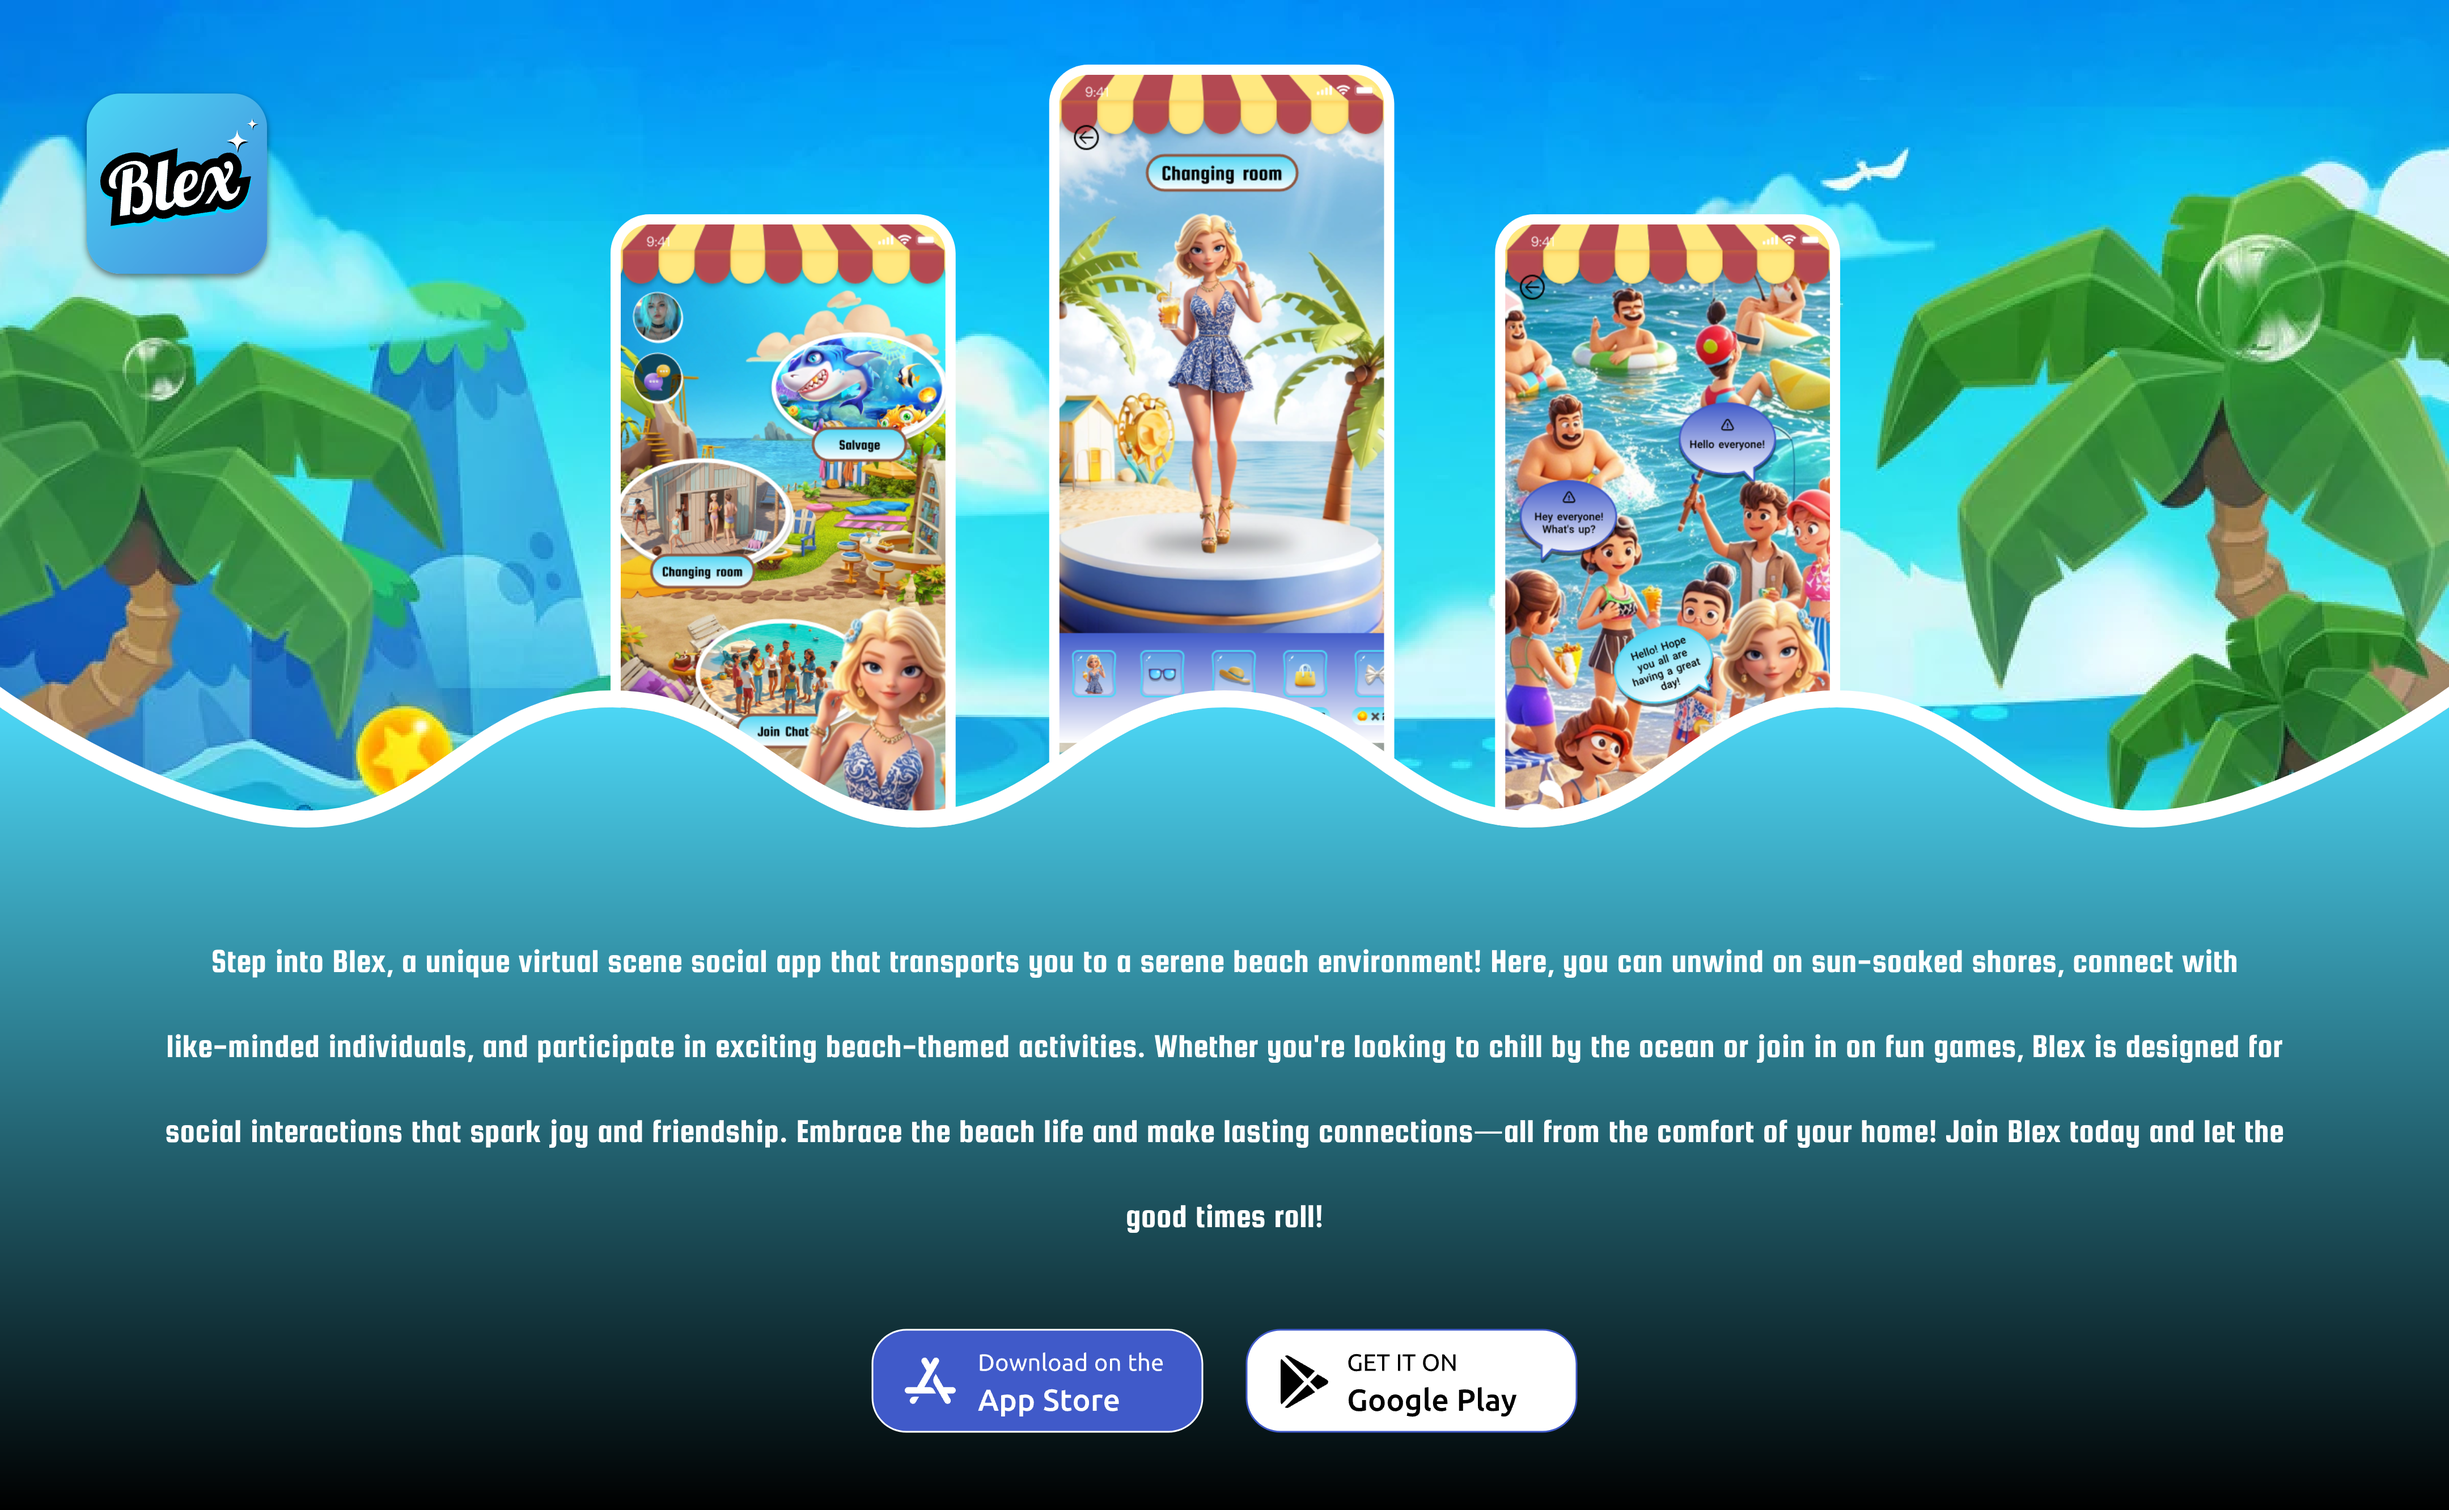
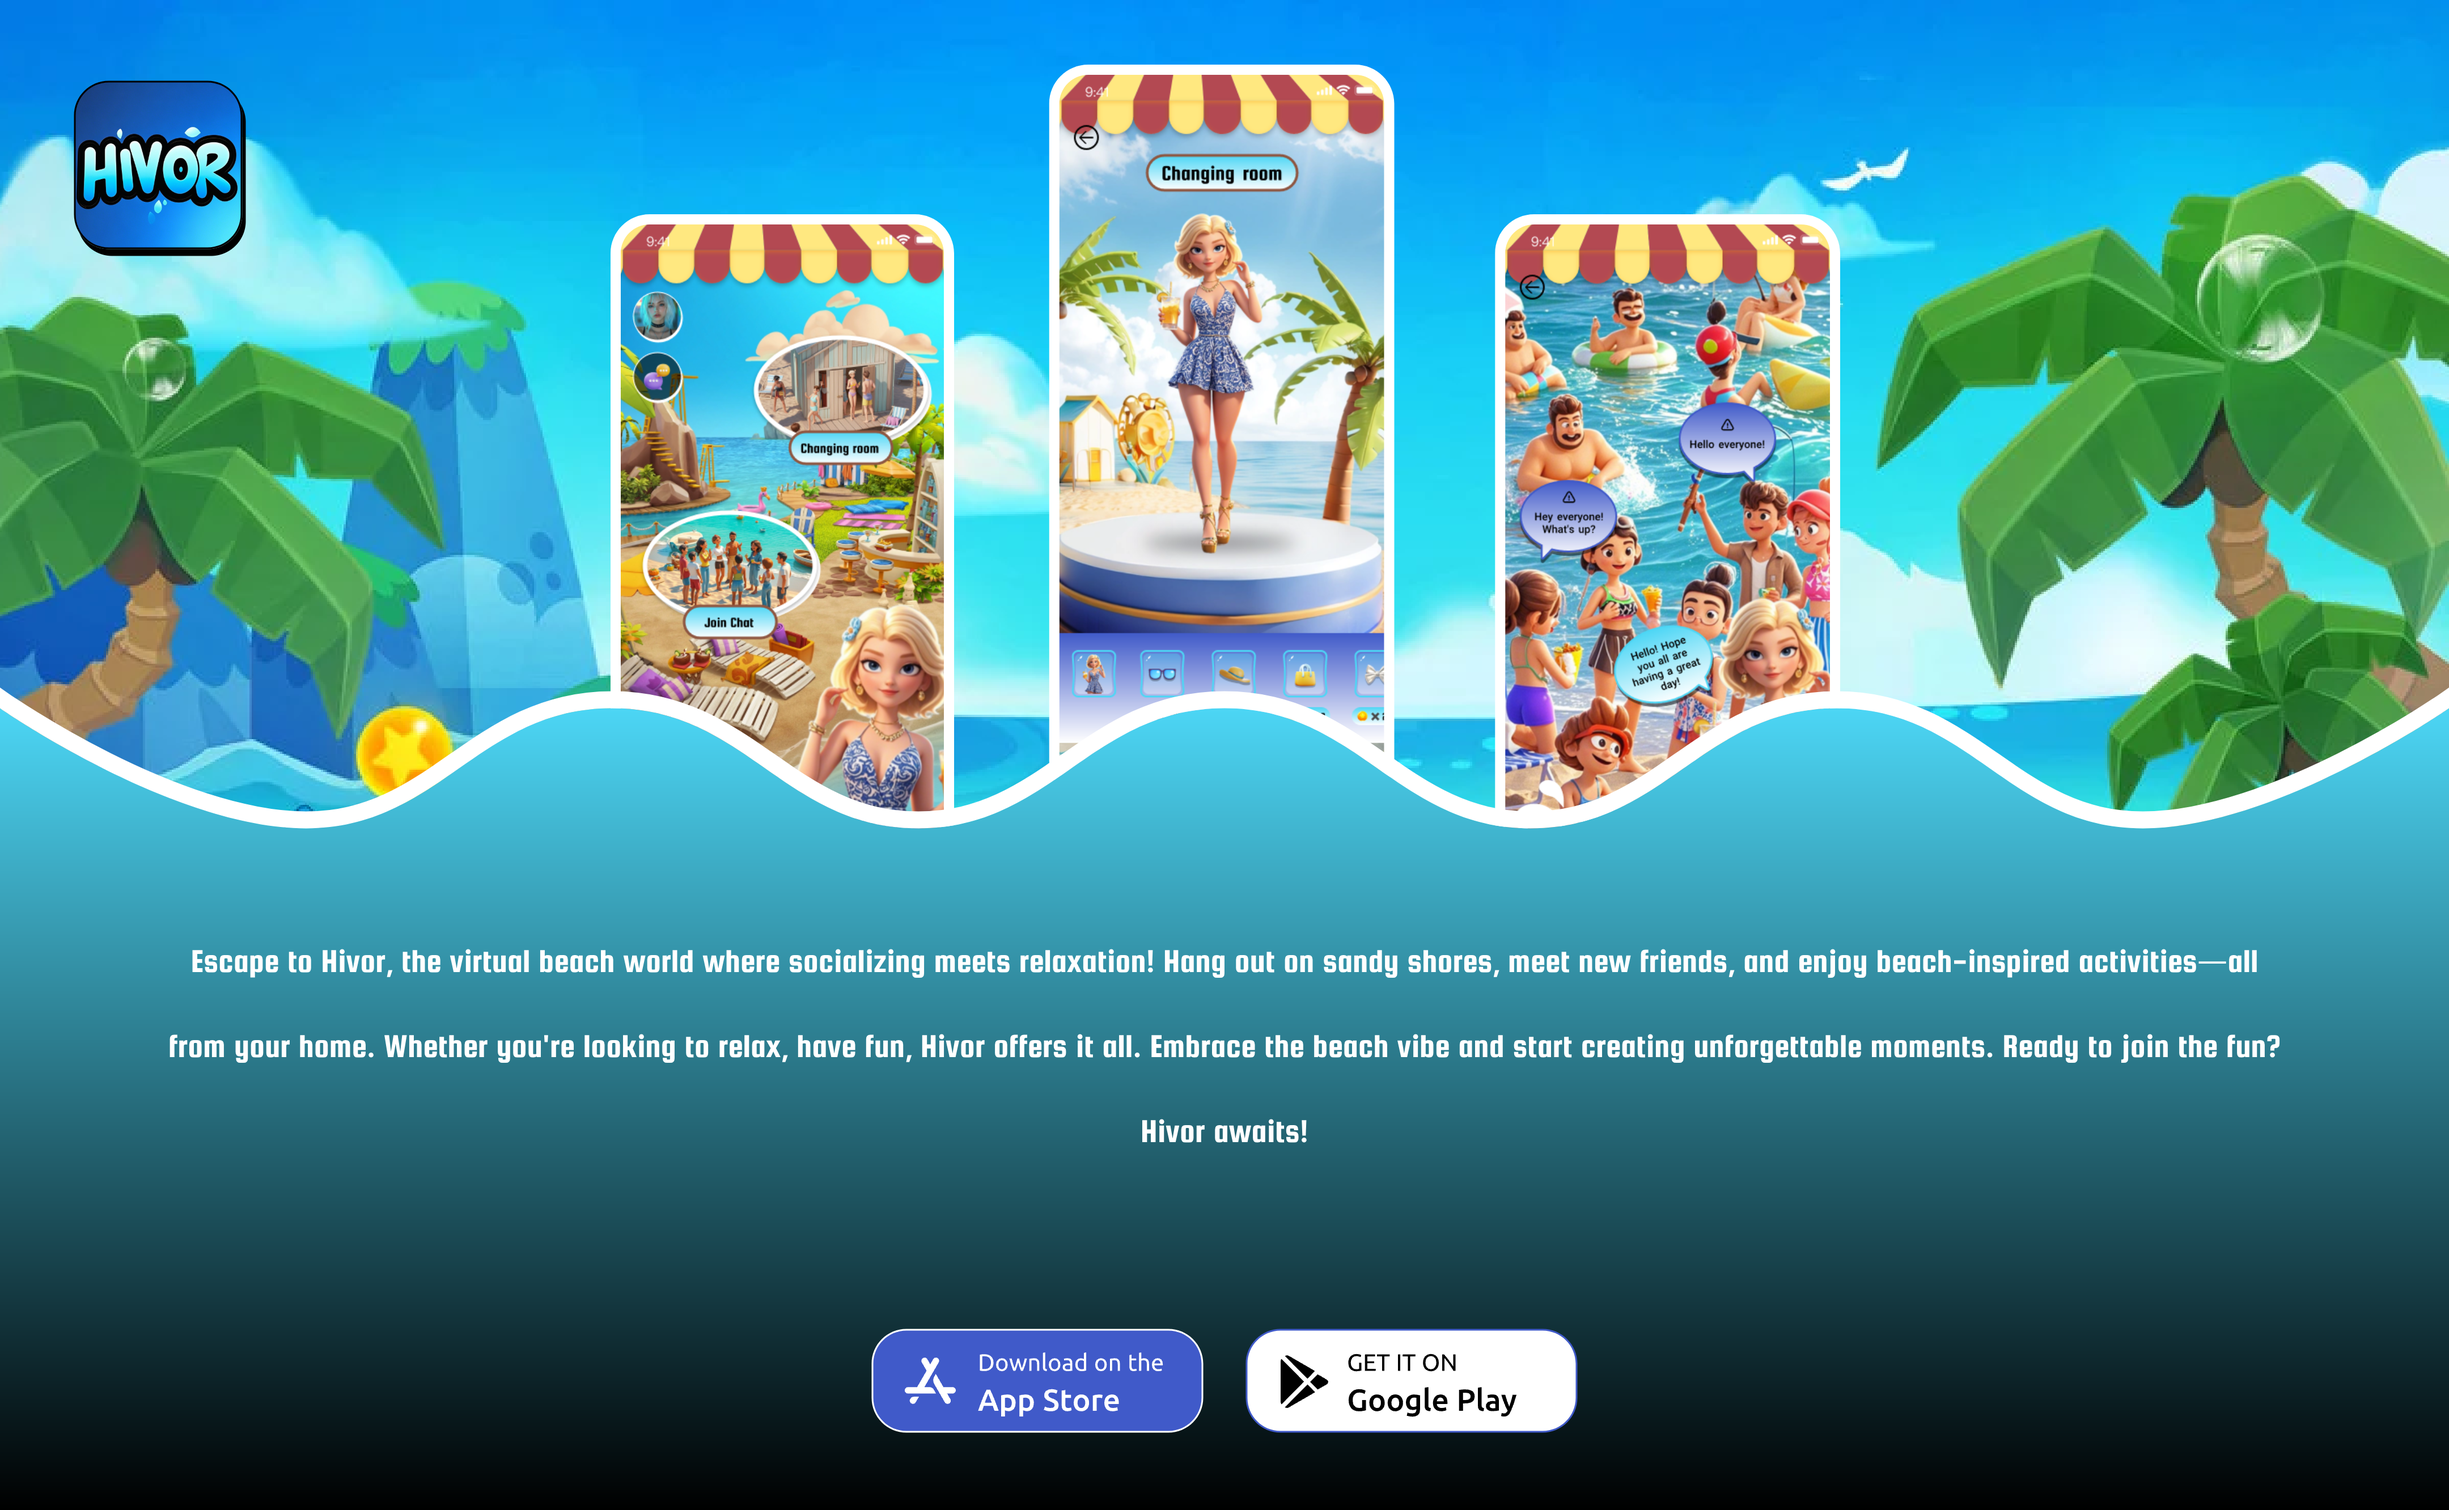
1

diff --git a/index.html b/index.html
@@ -5,7 +5,7 @@
   <meta name="viewport" content="width=device-width, initial-scale=1.0">
   <link rel="icon" href="/favicon.svg" type="image/svg+xml">
 
-  <title>Blex</title>
+  <title>Hivor</title>
 
   <title>boundfl</title>
 

diff --git a/src/pages/privacy.vue b/src/pages/privacy.vue
@@ -2,7 +2,7 @@
 defineOptions({
   name: 'IndexPage',
 })
-const appName = 'Blex'
+const appName = 'Hivor'
 </script>
 
 <template>

diff --git a/src/pages/users.vue b/src/pages/users.vue
@@ -2,7 +2,7 @@
 defineOptions({
   name: 'IndexPage',
 })
-const appName = 'Blex'
+const appName = 'Hivor'
 </script>
 
 <template>
